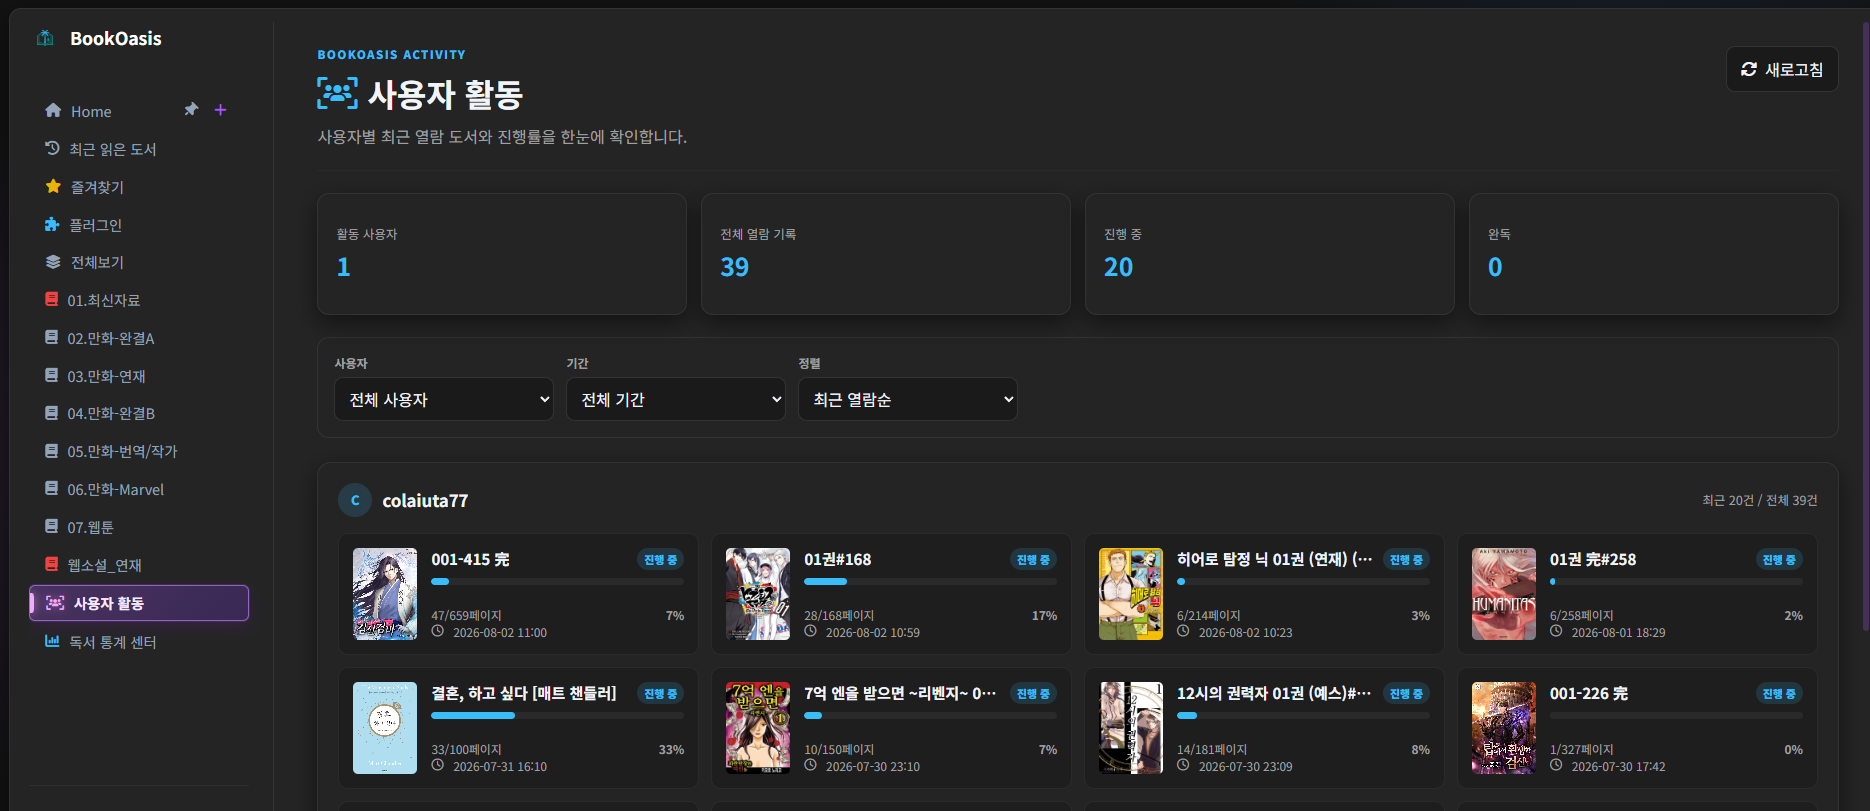
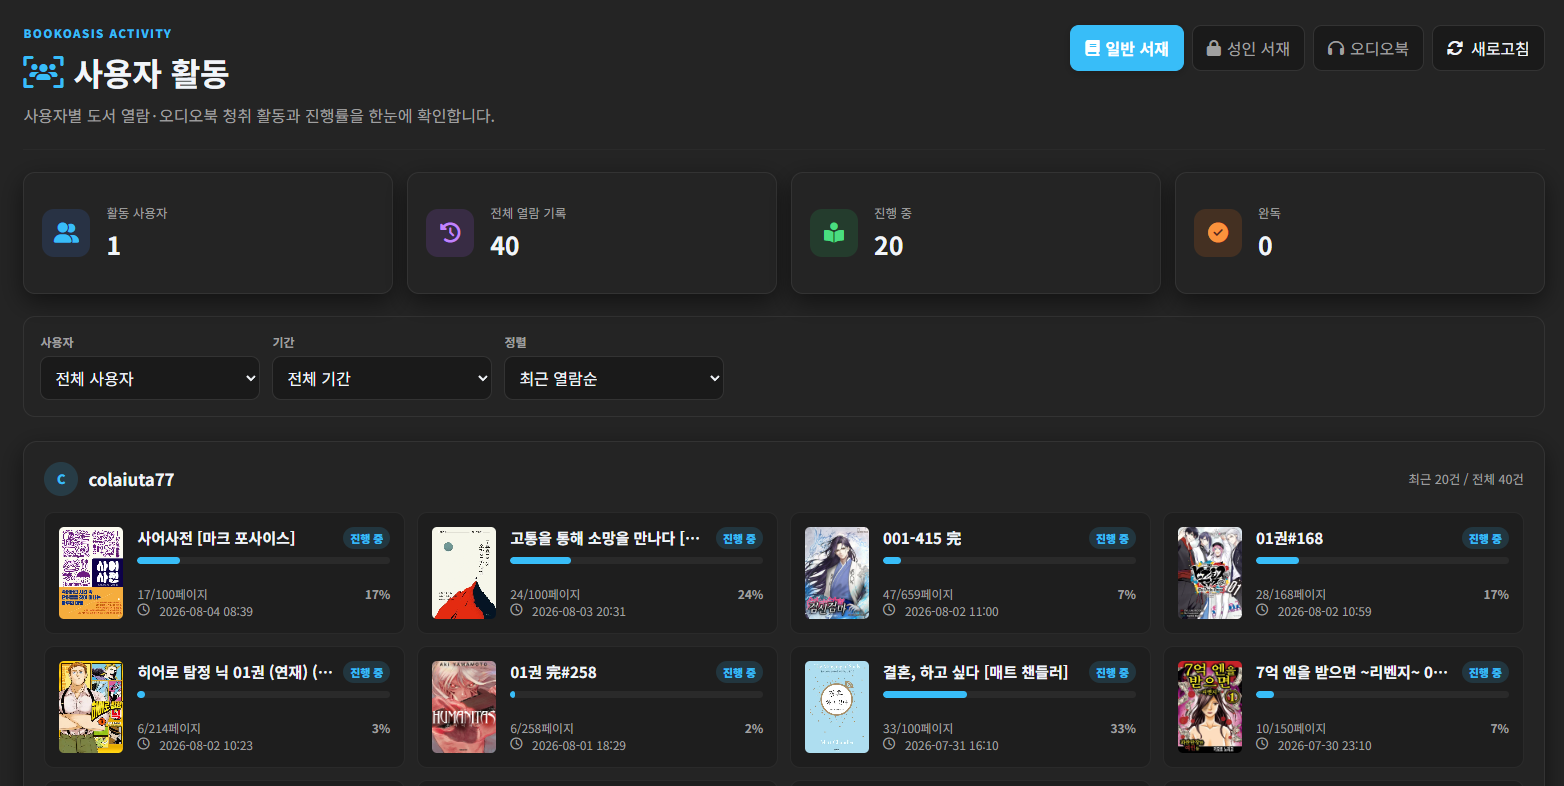
Activity 1.2.0 화면 스크린샷 갱신

diff --git a/README.md b/README.md
@@ -2,7 +2,7 @@
 
 BookOasis에 저장된 독서 진행 기록을 이용해 사용자별 최근 도서 열람·오디오북 청취 활동과 진행률을 보여주는 독립 카테고리 플러그인입니다.
 
-![전용 사용자 활동 탭](docs/activity-tab.png)
+![전용 사용자 활동 탭](docs/activity-tab.png?v=1.2.0)
 
 ## 버전 및 호환 정보
 
@@ -131,6 +131,7 @@ python -m unittest discover -s tests -v
 - 활동 사용자, 전체 기록, 진행 중과 완독 요약 카드에 의미별 아이콘과 색상 추가.
 - 모바일 화면에서 서재 버튼을 세로로 재배치하고 요약 카드를 2열로 표시.
 - BookOasis 1.7.0의 최신 독서 통계 서재 전환 계약과 호환성 확인.
+- 일반·성인·오디오북 전환과 요약 아이콘이 적용된 실제 화면으로 README 스크린샷 갱신.
 
 ### 1.1.0 - 2026-08-02
 
